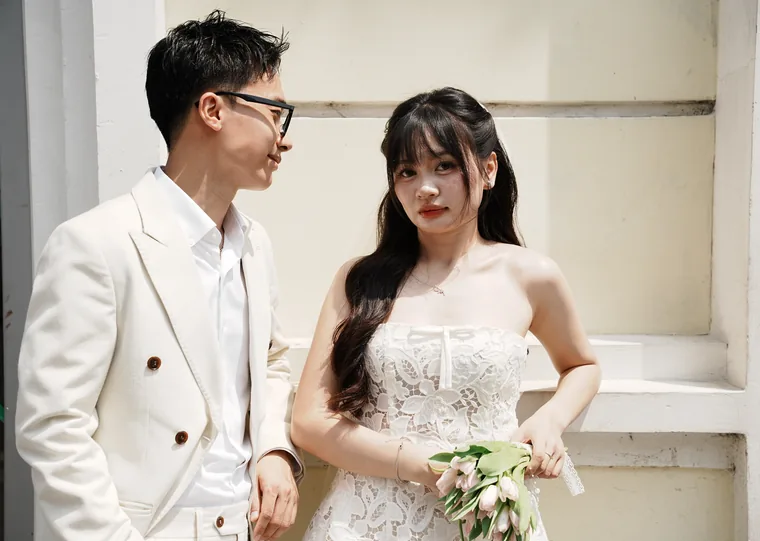
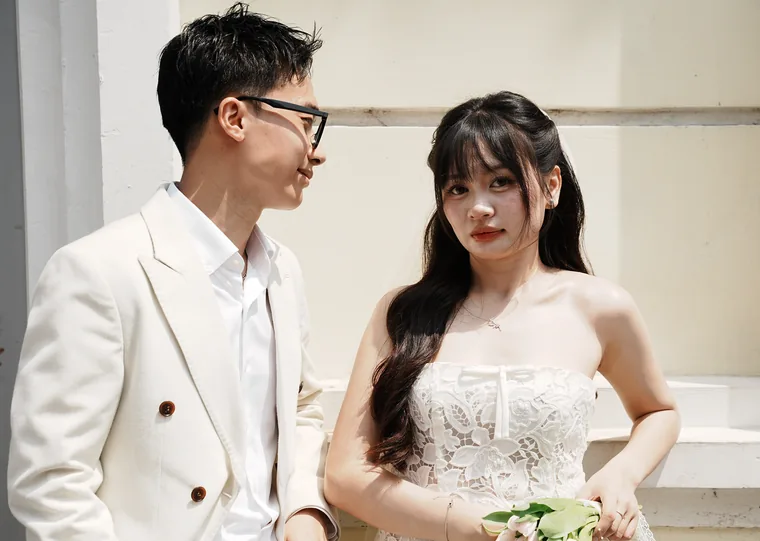
Four-frame dresscode gif and tighter album crops
- Dresscode flips through DSC09501, 09509, 09571, 09574 in a portrait
  frame; the keyframes are generated for however many frames are set.
- Album crops are centred on the couple and zoomed in where they were
  small in the frame.

diff --git a/src/main.js b/src/main.js
@@ -553,6 +553,7 @@ function initAgenda() {
 
 function dresscodeHtml() {
   const d = C.dresscode;
+  const n = d.frames.length;
   return `
   <section id="dresscode" class="section section--stripe" aria-labelledby="dresscode-title">
     ${decor({ src: 'red/cherry', x: '-3%', y: '8%', w: 'clamp(70px, 17vw, 150px)', r: '-10deg', motion: 'sway', duration: '9s' })}
@@ -561,7 +562,14 @@ function dresscodeHtml() {
       <img class="seal" src="${url('art/seal.webp')}" alt="" aria-hidden="true">
       ${reveal(`<p class="eyebrow">Dresscode</p><h2 id="dresscode-title" class="h2">${esc(d.title)}</h2><p class="lead">${esc(d.note)}</p>`, { cls: 'section-head' })}
       ${reveal(
-        `<img class="dresscode__frame dresscode__frameA" src="${url(d.frames[0])}" alt="" aria-hidden="true"><img class="dresscode__frame dresscode__frameB" src="${url(d.frames[1])}" alt="Ảnh ${esc(C.couple.groom)} và ${esc(C.couple.bride)}">`,
+        `<style>@keyframes dresscode__pose{0%{opacity:1}${(100 / n).toFixed(3)}%{opacity:0}}</style>${d.frames
+          .map(
+            (src, i) =>
+              `<img class="dresscode__frame" style="--dur:${n * d.frameMs}ms;animation-delay:${-((n - i) % n) * d.frameMs}ms" src="${url(src)}" width="600" height="800" ${
+                i ? 'alt="" aria-hidden="true"' : `alt="Ảnh ${esc(C.couple.groom)} và ${esc(C.couple.bride)}"`
+              }>`,
+          )
+          .join('')}`,
         { cls: 'dresscode__flipbook', delay: 80 },
       )}
     </div>

diff --git a/src/style.css b/src/style.css
@@ -1699,42 +1699,19 @@ a {
   font-size: 0.8em;
 }
 .dresscode__flipbook {
-  aspect-ratio: 760/596;
-  width: min(420px, 78%);
+  aspect-ratio: 600/800;
+  width: min(340px, 72%);
   margin-inline: auto;
   position: relative;
 }
+/* Mỗi khung hiện 1/n vòng lặp; @keyframes dresscode__pose sinh trong main.js theo số khung. */
 .dresscode__frame {
-  object-fit: contain;
+  object-fit: cover;
   width: 100%;
   height: 100%;
-  animation-duration: 1.2s;
-  animation-timing-function: step-end;
-  animation-iteration-count: infinite;
+  animation: dresscode__pose var(--dur, 2.4s) step-end infinite both;
   position: absolute;
   inset: 0;
-}
-.dresscode__frameA {
-  animation-name: dresscode__poseA;
-}
-.dresscode__frameB {
-  animation-name: dresscode__poseB;
-}
-@keyframes dresscode__poseA {
-  0% {
-    opacity: 1;
-  }
-  33.333% {
-    opacity: 0;
-  }
-}
-@keyframes dresscode__poseB {
-  0% {
-    opacity: 0;
-  }
-  33.333% {
-    opacity: 1;
-  }
 }
 .puzzle__wrap {
   --pr: 1;

diff --git a/src/config.js b/src/config.js
@@ -132,7 +132,9 @@ export const agenda = {
 export const dresscode = {
   title: 'Đừng quan trọng màu sắc hay phong cách',
   note: 'Hãy cùng nhau lên ảnh thật đẹp 🩲👙',
-  frames: ['photos/pose-a.webp', 'photos/pose-b.webp'],
+  // Các khung lật lần lượt như ảnh gif, mỗi khung hiện frameMs mili giây.
+  frames: ['photos/pose-1.webp', 'photos/pose-2.webp', 'photos/pose-3.webp', 'photos/pose-4.webp'],
+  frameMs: 600,
 };
 
 export const rsvp = {

diff --git a/scripts/prepare-photos.py b/scripts/prepare-photos.py
@@ -15,16 +15,16 @@ PHOTOS = [
     # Trang bìa: tấm ảnh in ra từ máy in
     ('DSC09555.JPG', 'hero.webp', 708, 1008, 0.50, 0.60),
     # Album cuộn phim (khung ngang): xen kẽ áo dài với đồ trắng
-    ('PVT03879.JPG', 'gallery-01.webp', 760, 541, 0.50, 0.50),
-    ('PVT04128.JPG', 'gallery-02.webp', 760, 541, 0.50, 0.30),
-    ('PVT03944.JPG', 'gallery-03.webp', 760, 541, 0.55, 0.50),
-    ('PVT04149.JPG', 'gallery-04.webp', 760, 541, 0.50, 0.50),
-    ('PVT04069.JPG', 'gallery-05.webp', 760, 541, 0.50, 0.45),
-    ('PVT04180.JPG', 'gallery-06.webp', 760, 541, 0.50, 0.55),
-    ('PVT04100.JPG', 'gallery-07.webp', 760, 541, 0.50, 0.35),
-    ('PVT04195.JPG', 'gallery-08.webp', 760, 541, 0.50, 0.50),
-    ('PVT04102.JPG', 'gallery-09.webp', 760, 541, 0.50, 0.50),
-    ('PVT04232.JPG', 'gallery-10.webp', 760, 541, 0.50, 0.30),
+    ('PVT03879.JPG', 'gallery-01.webp', 760, 541, 0.47, 0.58, 1.6),
+    ('PVT04128.JPG', 'gallery-02.webp', 760, 541, 0.55, 0.52, 1.15),
+    ('PVT03944.JPG', 'gallery-03.webp', 760, 541, 0.74, 0.45, 1.35),
+    ('PVT04149.JPG', 'gallery-04.webp', 760, 541, 0.52, 0.58, 1.1),
+    ('PVT04069.JPG', 'gallery-05.webp', 760, 541, 0.55, 0.50, 1.1),
+    ('PVT04180.JPG', 'gallery-06.webp', 760, 541, 0.42, 0.60, 1.45),
+    ('PVT04100.JPG', 'gallery-07.webp', 760, 541, 0.52, 0.50, 1.1),
+    ('PVT04195.JPG', 'gallery-08.webp', 760, 541, 0.45, 0.45, 1.15),
+    ('PVT04102.JPG', 'gallery-09.webp', 760, 541, 0.57, 0.48, 1.4),
+    ('PVT04232.JPG', 'gallery-10.webp', 760, 541, 0.55, 0.50, 1.1),
     # Lịch
     ('DSC09501.JPG', 'cal-photo-1.webp', 560, 700, 0.50, 0.45),
     ('DSC09571.JPG', 'cal-photo-2.webp', 440, 550, 0.50, 0.45),
@@ -33,9 +33,11 @@ PHOTOS = [
     ('lam-le.jpg', 'agenda-05.webp', 560, 747, 0.50, 0.50),
     ('dung-tiec.JPG', 'agenda-06.webp', 560, 747, 0.52, 0.50),
     ('game-quay.JPG', 'agenda-07.webp', 560, 747, 0.50, 0.50),
-    # Dresscode: hai khung hình lật qua lại (cùng bối cảnh, hai dáng)
-    ('DSC09443.jpg', 'pose-a.webp', 760, 596, 0.50, 0.48),
-    ('DSC09471.JPG', 'pose-b.webp', 760, 596, 0.50, 0.48),
+    # Dresscode: các khung hình lật lần lượt như ảnh gif (cùng bối cảnh, mỗi tấm một dáng)
+    ('DSC09501.JPG', 'pose-1.webp', 600, 800, 0.50, 0.60),
+    ('DSC09509.JPG', 'pose-2.webp', 600, 800, 0.50, 0.60),
+    ('DSC09571.JPG', 'pose-3.webp', 600, 800, 0.50, 0.60),
+    ('DSC09574.JPG', 'pose-4.webp', 600, 800, 0.50, 0.60),
 ]
 
 # Lời cảm ơn: ảnh tròn kiểu sticker. Hiện phần cảm ơn dùng tranh chibi (public/art/draw/), nên để trống.
